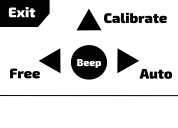
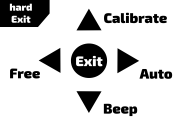
pushhhh

diff --git a/stuss.py b/stuss.py
@@ -7,6 +7,7 @@ from ev3dev2.sensor.lego import InfraredSensor
 from ev3dev2.led import Leds
 from time import sleep
 from PIL import Image
+import ev3dev2.fonts as fonts
 import os
 from stuss_utils import bind_buttons_free_move, unbind_all_buttons, menu_handler_function, handler_function, auto_move
 os.system('setfont Lat15-TerminusBold14')
@@ -52,13 +53,13 @@ def exit(gon):
     gon.exit = True
     gon.lcd.clear()
     gon.lcd.update()
-    print('exit')
+    lcd.draw.text((10,10), 'exit', font=fonts.load('luBS14'))
 
 def free(gon):
     gon.run_menu = False
     gon.lcd.clear()
     gon.lcd.update()
-    print('free')
+    lcd.draw.text((10,10), 'free', font=fonts.load('luBS14'))
 
     # set buttons
     bind_buttons_free_move(gon)
@@ -88,6 +89,9 @@ def free(gon):
     print('leaving free transit mode')
 
 def return_to_start(gon):
+
+    gon.sound.beep()
+    sleep(2)
     gon.run_menu = False
     gon.lcd.clear()
     gon.lcd.update()
@@ -107,10 +111,10 @@ def auto(gon):
     gon.run_menu = False
     gon.lcd.clear()
     gon.lcd.update()
-
+    logo = Image.open('/home/robot/STUSS/Images/auto_menu.png')
+    gon.lcd.image.paste(logo, (0,0))
+    gon.lcd.update()
     return_to_start(gon)
-    
-    print('auto')
 
     def exit_to_menu(gon):
         def on_press(state):
@@ -205,9 +209,9 @@ def beep(gon):
     # Sound.beep()
     gon.lcd.clear()
     gon.lcd.update()
-    gon.sound.beep()
     gon.run_menu = False
     print('beep')
+    gon.sound.speak("beep beep I am a sheep").wait()
     sleep(5)
 
 def menu(gon):
@@ -216,10 +220,10 @@ def menu(gon):
     gon.lcd.update()
 
     gon.btn.on_up    = menu_handler_function(calibrate, gon)
-    gon.btn.on_down  = menu_handler_function(exit, gon)
+    gon.btn.on_down  = menu_handler_function(beep, gon)
     gon.btn.on_left  = menu_handler_function(free, gon)
     gon.btn.on_right = menu_handler_function(auto, gon)
-    gon.btn.on_enter = menu_handler_function(beep, gon)
+    gon.btn.on_enter = menu_handler_function(exit, gon)
 
     while gon.run_menu:
         gon.btn.process()
@@ -239,4 +243,3 @@ while not gon.exit:
 gon.lcd.clear()
 gon.lcd.update()
 print('Goodbye')
-# gon.sound.speak('Goodbye').wait()

diff --git a/stuss_utils.py b/stuss_utils.py
@@ -1,4 +1,5 @@
-from ev3dev2.led import Leds
+from ev3dev2.led import Led
+from time import sleep
 
 def roll(motor, direction): # LEDs könnten hier noch blinken, TODO
     """
@@ -23,8 +24,8 @@ def roll(motor, direction): # LEDs könnten hier noch blinken, TODO
 
 def auto_move(gon): # TODO sleeps zwischen die moves, ramp ups vllt, andere stop action
     
-    print("moving")
     gon.sound.beep()
+    sleep(2)
 
     # move up
     gon.vert_motor.run_to_rel_pos(position_sp=gon.vert_length, speed_sp=gon.auto_speed, stop_action="coast")
